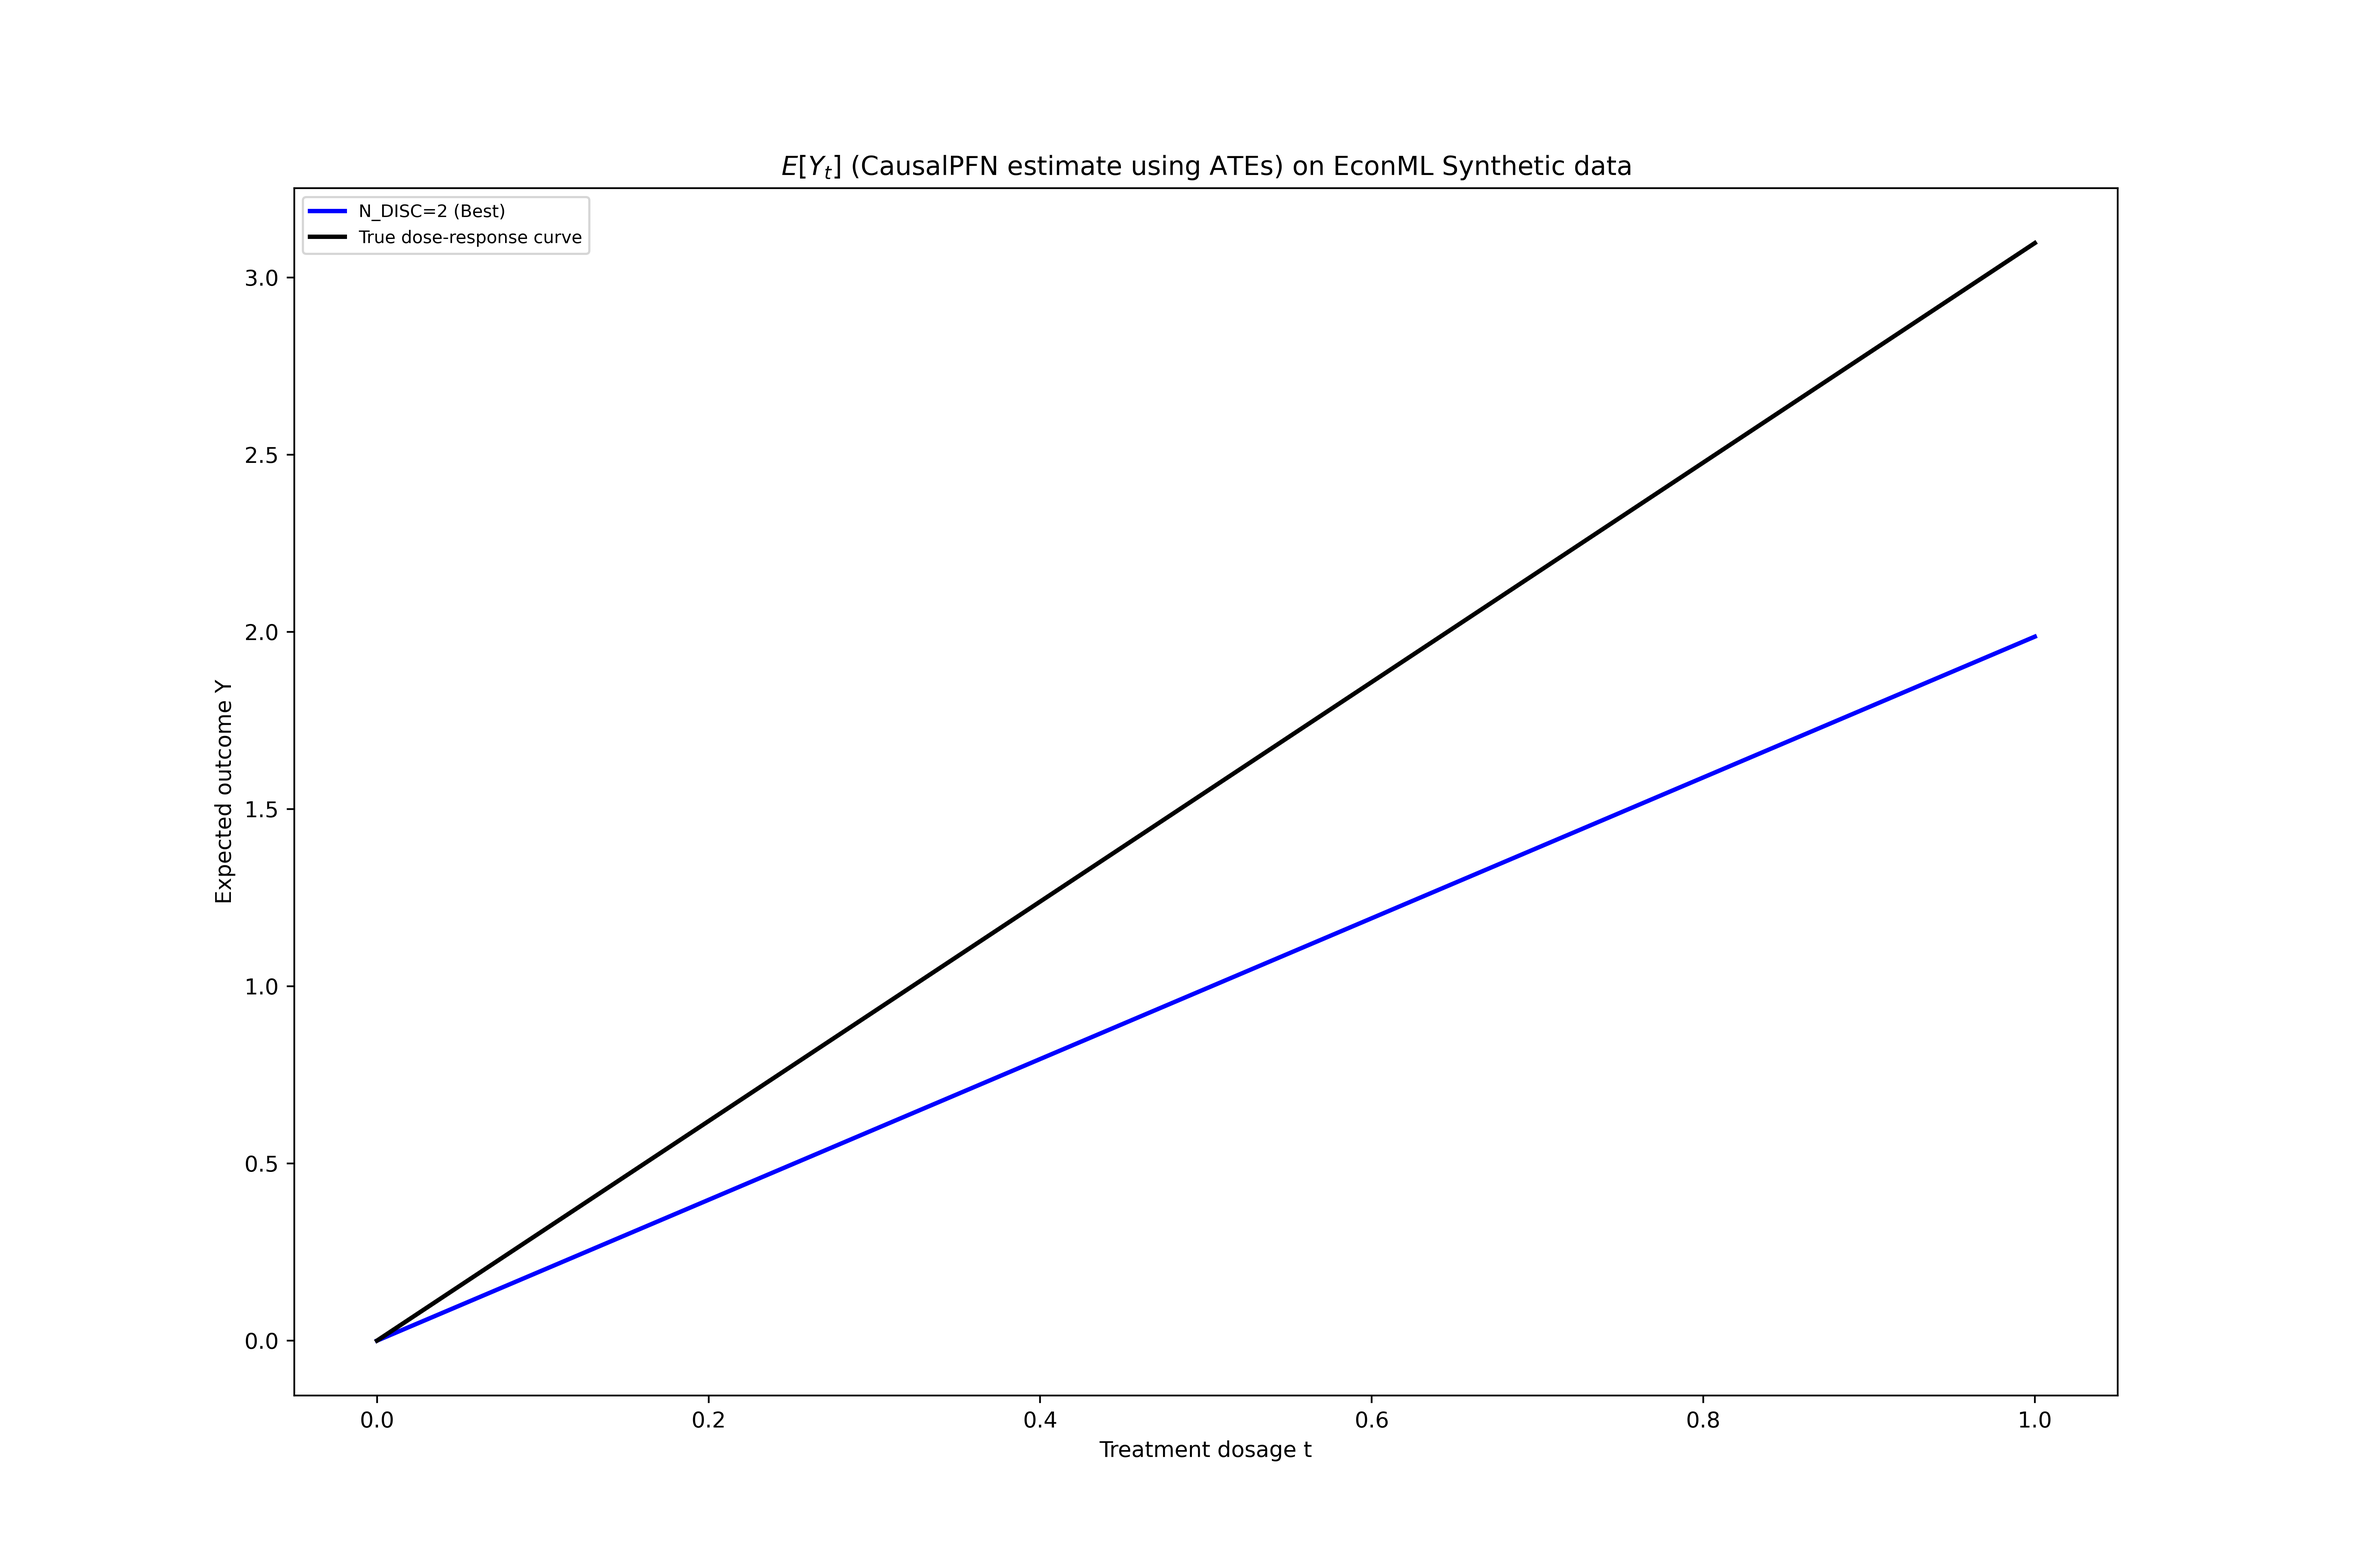
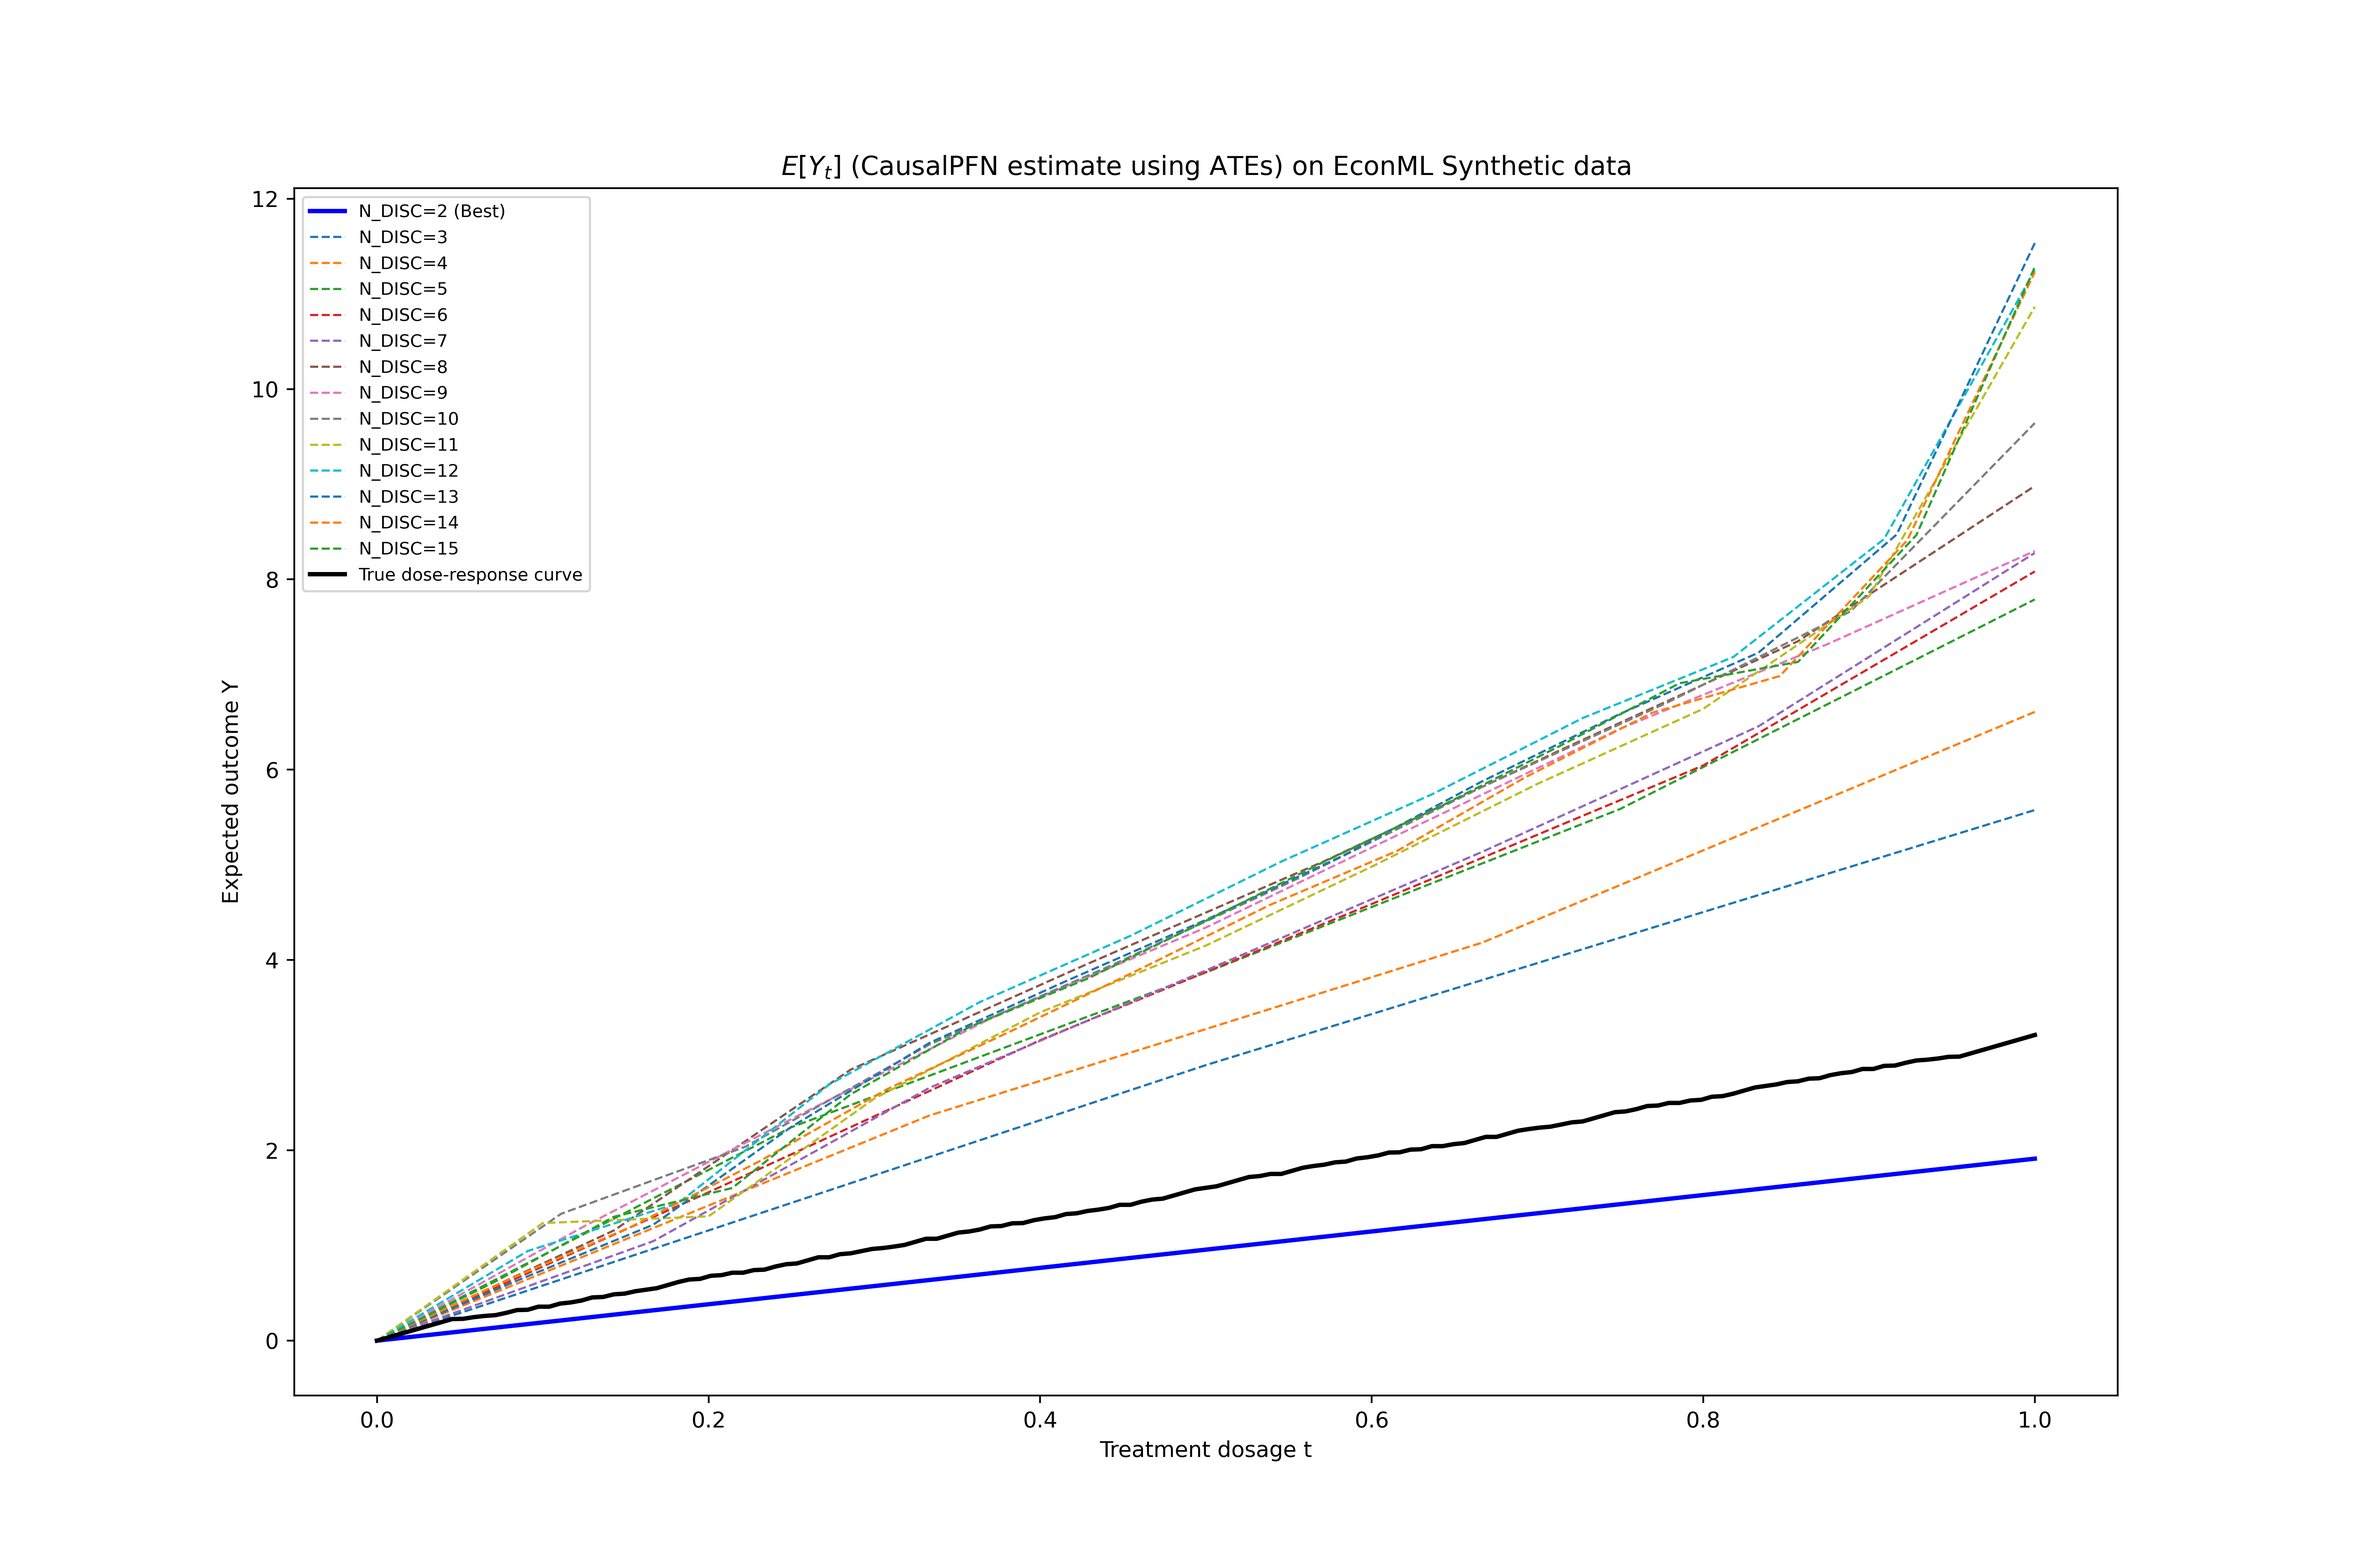
Running econML ex1

diff --git a/scripts/econML1_bin_optimization.py b/scripts/econML1_bin_optimization.py
@@ -12,7 +12,7 @@ from functools import reduce
 device = torch.device("cuda:0" if torch.cuda.is_available() else "cpu")
 
 ## MAIN HYPERPARAMETER
-N_DISC_VALUES = [2]
+N_DISC_VALUES = [2, 3, 4, 5, 6, 7, 8, 9, 10, 11, 12, 13, 14, 15]
 
 ## Main body
 # Discretization function
@@ -44,7 +44,7 @@ def calculate_rmse(y_pred, y_true):
 # DGP constants
 np.random.seed(123)
 def exp_te(x): return np.exp(2 * x[0])
-n = 1000
+n = 2000
 n_w = 30
 support_size = 5
 n_x = 1
